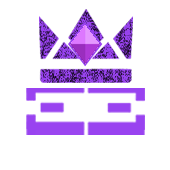
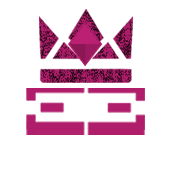
2026.11.10.16

Changed region(s): [[0.1471, 0.0588, 0.8529, 0.6176], [0.1471, 0.5882, 0.8529, 0.7941], [0.2353, 0.5882, 0.3824, 0.6765]]

diff --git a/app/frontend/src/components/AchievementsView.tsx b/app/frontend/src/components/AchievementsView.tsx
@@ -896,31 +896,43 @@ function pickGoals(userId: string, items: Achievement[]): { a: Achievement; frac
   return picked.map(({ a, fraction }) => ({ a, fraction }));
 }
 
-function StripBody({ userId, onOpen }: { userId: string; onOpen: () => void }) {
-  const d = useApi(() => getAchievements(userId), userId).data;
-  if (!d) return null;
-  const counted = d.items.filter((a) => a.counted && !a.prize);
+/** A player's challenges as one bar split by best medal (crowns first, then gold, silver, bronze), the overall progress
+ *  and the count per medal. On the player page's strip, and bigger at the top of the player's Achievements page
+ *  (user, 2026-11-10: the same bar on both). */
+function MedalBar({ items, overall }: { items: Achievement[]; overall: number }) {
+  const counted = items.filter((a) => a.counted && !a.prize);
   const crowns = counted.filter((a) => a.progress >= 1).length;
   // one coloured segment per medal level, highest first: every crown has its own share of the bar (user, 2026-11-06)
   const segments = ([["crown", crowns], ...(["gold", "silver", "bronze"] as const).map((m) => [m, counted.filter((a) => a.progress < 1 && a.levels && a.tier === m).length] as const)] as const)
     .filter(([, n]) => n > 0);
+  return (
+    <>
+      <div className="strip-bar" role="img" aria-label={`${crowns} crowns, ${segments.map(([m, n]) => `${n} ${m}`).join(", ")} out of ${counted.length} challenges`}>
+        {segments.map(([m, n]) => (
+          <i key={m} className={`t-${m}`} style={{ width: `${(n / counted.length) * 100}%` }} title={`${n} challenge${n === 1 ? "" : "s"} at ${m}${m === "crown" ? " (completed)" : " as the best medal"}`} />
+        ))}
+      </div>
+      <span className="muted strip-total">{pct(overall)} · {crowns} / {counted.length} crowns</span>
+      <span className="strip-medals">
+        {[...segments].reverse().map(([m, n]) => (
+          <span key={m} className={`t-${m}`} title={`Challenges where ${m} is the best medal`}><i />{n}</span>
+        ))}
+      </span>
+    </>
+  );
+}
+
+function StripBody({ userId, onOpen }: { userId: string; onOpen: () => void }) {
+  const d = useApi(() => getAchievements(userId), userId).data;
+  if (!d) return null;
+  const counted = d.items.filter((a) => a.counted && !a.prize);
   const next = pickGoals(userId, counted);
   return (
     <section className="ach-strip" aria-label="Achievements">
       <div className="ach-strip-top">
       <button className="ach-strip-head" onClick={onOpen} title="Open the Achievements tab">
         <strong>Achievements</strong>
-        <div className="strip-bar" role="img" aria-label={`${crowns} crowns, ${segments.map(([m, n]) => `${n} ${m}`).join(", ")} out of ${counted.length} challenges`}>
-          {segments.map(([m, n]) => (
-            <i key={m} className={`t-${m}`} style={{ width: `${(n / counted.length) * 100}%` }} title={`${n} challenge${n === 1 ? "" : "s"} at ${m}${m === "crown" ? " (completed)" : " as the best medal"}`} />
-          ))}
-        </div>
-        <span className="muted">{pct(d.overall)} · {crowns} / {counted.length} crowns</span>
-        <span className="strip-medals">
-          {[...segments].reverse().map(([m, n]) => (
-            <span key={m} className={`t-${m}`} title={`Challenges where ${m} is the best medal`}><i />{n}</span>
-          ))}
-        </span>
+        <MedalBar items={d.items} overall={d.overall} />
       </button>
       <Link className="button ach-all" to={achievementsPath(d.user_id, d.name)}>
         All achievements →
@@ -1081,7 +1093,7 @@ export function AchievementRules({ open = false }: { open?: boolean }) {
       <summary>Rules</summary>
       <ul>
         <li>
-          <strong>Medals.</strong> Almost every challenge is a ladder: bronze, silver, gold and a purple crown for completing it. The bar has one step per medal, the
+          <strong>Medals.</strong> Almost every challenge is a ladder: bronze, silver, gold and a pink crown for completing it. The bar has one step per medal, the
           colour of a name is the medal reached and the number under each step is its target. A few single-step challenges keep white 25%, bronze
           50%, silver 75%, gold 100%.
         </li>
@@ -1163,6 +1175,9 @@ export function AchievementsView({ userId }: { userId: string }) {
       <Status loading={result.loading} error={result.error} />
       {data && (
         <>
+          <div className="medal-bar-big" aria-label="Medals">
+            <MedalBar items={data.items} overall={data.overall} />
+          </div>
           <NextMedals items={data.items} />
           <div className="filters">
             <div className="card">

diff --git a/app/frontend/src/styles.css b/app/frontend/src/styles.css
@@ -4,7 +4,7 @@
   --tier-silver: #b9c2d0;
   --tier-gold: #f0c230;
   --tier-diamond: #6cb8ff;
-  --tier-crown: #a855f7;
+  --tier-crown: #e0388f;
   --tier-bar-default: var(--blue);
   --bg: #16181c;
   --panel: #1f2228;
@@ -973,7 +973,7 @@ nav {
   --tier-silver: #576173;
   --tier-gold: #8a6500;
   --tier-diamond: #1560b5;
-  --tier-crown: #7c3aed;
+  --tier-crown: #bb2072;
   --bg: #f4f5f7;
   --panel: #ffffff;
   --line: #d9dce1;
@@ -4234,10 +4234,10 @@ button.small {
 .tile-close:hover, .tile-close:focus-visible { background: var(--line); }
 .tile-face { height: 100%; }
 
-/* Crown = a gold crown with a pink diamond: its icon glyph and name use the same gold-to-pink as the frame (user, 2026-11-06:
+/* Crown = pink (user, 2026-11-10): its icon glyph and name use the same pink as the frame (user, 2026-11-06:
    icon colours match the achievement colour). The medal frames themselves were recoloured to the exact tier colours above. */
-.t-crown { --tier-fill: #a855f7; }
-:root[data-theme="light"] .t-crown { --tier-fill: #7c3aed; }
+.t-crown { --tier-fill: #e0388f; }
+:root[data-theme="light"] .t-crown { --tier-fill: #bb2072; }
 .badge-card.t-crown .badge-text strong,
 .badge-card.t-crown .tier-name {
   background: var(--tier-fill);
@@ -4266,7 +4266,16 @@ button.small {
 .strip-bar i { display: block; height: 100%; background: var(--tier-fill, var(--tier)); min-width: 2px; }
 .strip-bar i + i { box-shadow: -1px 0 0 var(--panel); }
 .strip-medals i { background: var(--tier-fill, var(--tier)); }
-/* the crown is purple in the player-profile Achievements strip (user, 2026-11-10) */
+/* the crown is pink in the player-profile Achievements strip (user, 2026-11-10) */
+
+/* the same bar, bigger, at the top of a player's Achievements page (user, 2026-11-10): the bar takes the full width, the
+   progress and the medal counts sit under it */
+.medal-bar-big { display: flex; flex-wrap: wrap; align-items: center; gap: 10px 18px; margin: 12px 0; padding: 14px 16px; border-radius: 8px; background: var(--panel); }
+.medal-bar-big .strip-bar { flex: 1 1 100%; max-width: none; height: 1.75rem; }
+.medal-bar-big .strip-bar i + i { box-shadow: -2px 0 0 var(--panel); }
+.medal-bar-big .strip-total { font-size: 1.1rem; font-weight: 600; }
+.medal-bar-big .strip-medals { margin-left: auto; gap: 18px; font-size: 1.1rem; font-weight: 600; }
+.medal-bar-big .strip-medals i { width: 13px; height: 13px; margin-right: 6px; }
 
 .strip-goals { margin: 10px 0 0; font-size: 0.8rem; }
 

diff --git a/tests/backend/test_achievements_offload.py b/tests/backend/test_achievements_offload.py
@@ -136,3 +136,20 @@ def test_every_api_answer_names_its_version(tmp_path):
         assert client.get("/api/health").headers["x-echovr-build"] == version.VERSION
         assert client.get("/api/matches/999999").headers["x-echovr-build"] == version.VERSION  # errors too
         assert "x-echovr-build" not in client.get("/").headers
+
+def test_ranking_is_refreshed_at_most_every_ranking_refresh_s(tmp_path, monkeypatch):
+    """New data: the ranking is recalculated once it is ranking_refresh_s old, not after the shorter cache_refresh_s."""
+    with app_client(make_settings(tmp_path, cache_refresh_s=1, ranking_refresh_s=900)) as client:
+        add(client, {"dyson/0.echoreplay": rf.plain(rf.lines(20))})
+        act(client, actions.set_challenge_window, "2026-01-01", None)
+        sessions = client.app.state.sessionmaker
+        board = {"stat": "achievements", "min_games": 1}
+        assert client.get("/api/leaderboard", params=board).status_code == 200
+        started = []
+        monkeypatch.setattr(api, "_refresh_in_background", lambda s, key: started.append(key))
+        add(client, {"dyson/1.echoreplay": rf.plain(rf.lines(20))})  # the data changed
+        key, built_at, data = api._cache[id(sessions)]
+        api._cache[id(sessions)] = (key, built_at - 600, data)  # 10 minutes old: past cache_refresh_s, not ranking_refresh_s
+        assert client.get("/api/leaderboard", params=board).status_code == 200 and started == []
+        api._cache[id(sessions)] = (key, built_at - 901, data)
+        assert client.get("/api/leaderboard", params=board).status_code == 200 and len(started) == 1

diff --git a/app/backend/config.py b/app/backend/config.py
@@ -54,6 +54,10 @@ class Settings:
     # many seconds (Cloudflare-CDN-Cache-Control; 0 = no shared cache keeps them, browsers still revalidate by ETag)
     cache_refresh_s: float = 0.0
     edge_cache_s: int = 0
+    # The everyone-ranking of the achievements (leaderboard, rarity, medal feed) is the costliest answer to keep current:
+    # every refresh reads all games of all players (3.5 s of CPU on the dev PC, 5-12x that on the NAS). It is recalculated
+    # at most this often, never more often than cache_refresh_s (user, 2026-11-10: 15 minutes on the website)
+    ranking_refresh_s: float = 0.0
     # Twitch channel of the spectator bot: live = a game is being played now (twitch.py); "" = not checked (the tests)
     twitch_channel: str = ""
     # Averages, rates and win rates on profiles / trends / compare / leaderboard count only games of 2+ minutes with 2+
@@ -97,6 +101,7 @@ class Settings:
             db_cache_mb=int(env("ECHOVR_DB_CACHE_MB", 1024)),
             track_cache_mb=int(env("ECHOVR_TRACK_CACHE_MB", 512)),
             cache_refresh_s=float(env("ECHOVR_CACHE_REFRESH_S", 300)),
+            ranking_refresh_s=float(env("ECHOVR_RANKING_REFRESH_S", 900)),
             edge_cache_s=int(env("ECHOVR_EDGE_CACHE_S", 60)),
             twitch_channel=env("ECHOVR_TWITCH_CHANNEL", "combat_stream_bot"),
             bot_link_secret=_secret(env("ECHOVR_BOT_LINK_SECRET")),

diff --git a/app/backend/api/achievements.py b/app/backend/api/achievements.py
@@ -482,7 +482,8 @@ def warm(sessions, previews: bool = False) -> None:
 def _everyone(request: Request) -> dict:
     """{"rows": [(player_id, games, overall)], "progress": {player_id: [progress per rule]}, "recent": [...]}
     within the challenge period. New data: the previous result is served at once and recomputed in the
-    background, at most every ECHOVR_CACHE_REFRESH_S (every 10 minutes while an import is running). Only the very
+    background, at most every ECHOVR_RANKING_REFRESH_S (15 minutes on the website; never more often than
+    ECHOVR_CACHE_REFRESH_S, nor than every 10 minutes while an import is running). Only the very
     first request and a challenge-period change wait for the computation."""
     sessions = request.app.state.sessionmaker
     key = _key(sessions)
@@ -490,7 +491,8 @@ def _everyone(request: Request) -> dict:
     if cached and cached[0] == key:
         return cached[2]
     if cached and cached[0][1] == key[1]:
-        reuse = max(request.app.state.settings.cache_refresh_s,
+        settings = request.app.state.settings
+        reuse = max(settings.cache_refresh_s, settings.ranking_refresh_s,
                     REUSE_WHILE_IMPORTING_S if request.app.state.worker.busy else 0)
         if time.monotonic() - cached[1] >= reuse:
             _refresh_in_background(sessions, key)

diff --git a/app/backend/achievements.py b/app/backend/achievements.py
@@ -160,7 +160,7 @@ class Rule:
 
 
 # Tiered rules (user, 2026-10-31): almost every rule is a ladder. Order (user, 2026-10-31): bronze, silver, gold, diamond, platinum (platinum is the top medal).
-LEVELS = ("bronze", "silver", "gold", "crown")  # user, 2026-11-10: bronze > silver > gold > crown (purple) = completed (was bronze, gold, platinum, crown)
+LEVELS = ("bronze", "silver", "gold", "crown")  # user, 2026-11-10: bronze > silver > gold > crown (pink) = completed (was bronze, gold, platinum, crown)
 
 
 def four_medals(levels: tuple[float, ...]) -> tuple[float, ...]:

diff --git a/app/backend/version.py b/app/backend/version.py
@@ -3,8 +3,8 @@ release time. Never edit by hand: `python app/bump_version.py` sets both and add
 VERSION (full) tags the Docker image, GitHub commits and changelog entries; people see the short form (user,
 2026-11-01): "Beta v26.11.1-7" in the website footer, /api/health and the admin console."""
 
-VERSION = "2026.11.10.14"
-RELEASED = "2026-11-10T16:57"  # local time of the release
+VERSION = "2026.11.10.16"
+RELEASED = "2026-11-10T17:20"  # local time of the release
 
 
 def short(version: str) -> str:

diff --git a/docs/Changelog.MD b/docs/Changelog.MD
@@ -18,14 +18,30 @@ Working record of what changed in each release, newest first.
 
 ---
 
+## 2026.11.10.16 — 17:20
+
+- **A player's Achievements page now opens with the medal bar from the player page, bigger.** One bar across the page
+  split by best medal (crowns, gold, silver, bronze), with the overall progress, the crowns out of all challenges and
+  the count per medal under it, above "Your next medals". The player page's strip is unchanged (both use the same
+  component). Checked on desktop (dark and light) and at phone width.
+
+## 2026.11.10.15 — 17:15
+
+- **Less NAS CPU: the achievement ranking is recalculated at most every 15 minutes** (was 5; user, 2026-11-10). The
+  achievement leaderboard, the rarity shares and the medal feed can be up to 15 minutes behind new matches; a player's own
+  achievements page is not affected. Each refresh reads every game of every player (3.5 s of CPU on the dev PC, an
+  estimated 18-42 s on the NAS): during play roughly 2-5 % of one NAS core instead of 6-14 %. New setting
+  `ECHOVR_RANKING_REFRESH_S` (seconds, `900`); it is never shorter than `ECHOVR_CACHE_REFRESH_S`.
+  To do: nothing (900 is the default without the YAML line); to choose another interval add the line from the new YAML.
+
 ## 2026.11.10.14 — 16:57
 
-- **Medal ladder is now Bronze > Silver > Gold > Crown (purple)** (was bronze, gold, platinum, crown): same targets, new
+- **Medal ladder is now Bronze > Silver > Gold > Crown (pink)** (was bronze, gold, platinum, crown): same targets, new
   names and colours (old gold is silver, old platinum is gold). Texts that said "gold or better" / "gold and up" now say
   silver (Medal Collector, 7-day gear rules). The teal platinum colour is gone.
-- **The crown medal is now purple everywhere** (was gold with a pink diamond): the player-profile Achievements strip
+- **The crown medal is now pink everywhere** (was gold with a pink diamond): the player-profile Achievements strip
   (bar and legend dot), the crown medal picture, crown names and icons on achievement cards, recent unlocks, medal
-  chips and dots, and the Medals help text. A lighter purple in the dark theme, a deeper one in the light theme.
+  chips and dots, and the Medals help text. A lighter pink in the dark theme, a deeper one in the light theme.
 
 ## 2026.11.10.13 — 16:52
 

diff --git a/docs/Setup.MD b/docs/Setup.MD
@@ -38,6 +38,7 @@ npm install
 | `ECHOVR_DB_CACHE_MB` | `1024` | RAM cache (D49): the database is memory-mapped up to this size and read in at startup. Shared OS file cache, given back when other programs need it. `0` = off |
 | `ECHOVR_TRACK_CACHE_MB` | `512` | RAM cache (D49): decoded position files (heatmaps, playback), ~70 KB per match. App memory: lower it on a NAS with little RAM. `0` = off |
 | `ECHOVR_CACHE_REFRESH_S` | `300` | Answer cache (D53): a page whose data changed is still answered at once and recalculated in the background at most this often (pages are at most about this far behind new replays). Lower = fresher, more CPU while importing. `0` = recalculate before answering (slow while importing) |
+| `ECHOVR_RANKING_REFRESH_S` | `900` | The achievement ranking (achievement leaderboard, rarity shares, medal feed) is recalculated in the background at most this often; never more often than `ECHOVR_CACHE_REFRESH_S`. Its refresh reads every game of every player: the costliest one on the NAS (roughly 2-5 % of one core during play at 900, 6-14 % at 300). A player's own achievements page does not wait for it |
 | `ECHOVR_EDGE_CACHE_S` | `60` | Cloudflare may keep public data answers this many seconds, so repeats never reach the NAS (needs the Cache Rule, see Cloudflare cache). Login answers and errors are never kept. `0` = Cloudflare never keeps them |
 | `ECHOVR_DISCORD_NAME_PICTURES` | `1` | Player pictures matched by name from the Discord server's member list. Needs the bot's **Server Members intent** (Developer Portal > Bot > Privileged Gateway Intents; no approval needed while the bot is in fewer than 100 servers). Without it Discord's refusal is logged once per start and nothing else changes. `0` = never ask for the member list. Pictures of linked players and known Discord ids need no intent either way |
 | `ECHOVR_CLOUD_TRASH_DAYS` | `30` | Open Cloud: deleted files and folders stay this many days in the recycle bin (Console > Cloud > Recycle bin), then go for good. `0` = kept until a console user removes them. The recycle bin counts toward the quota |
